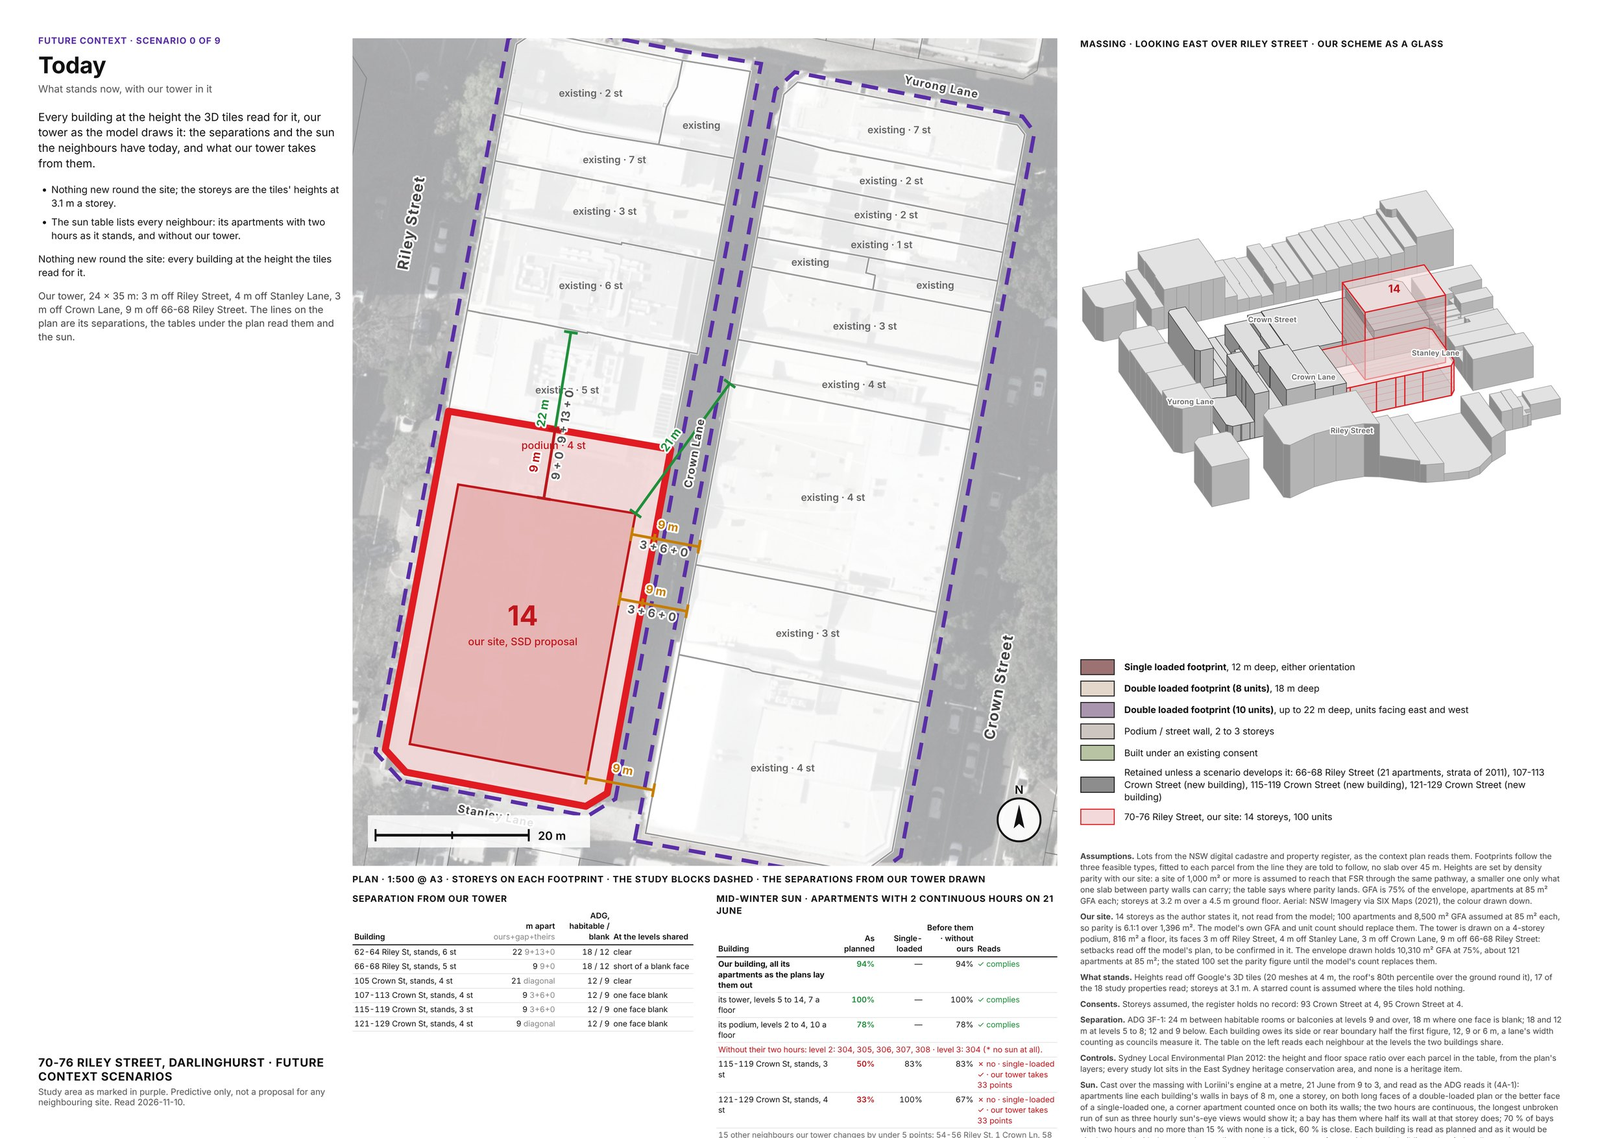
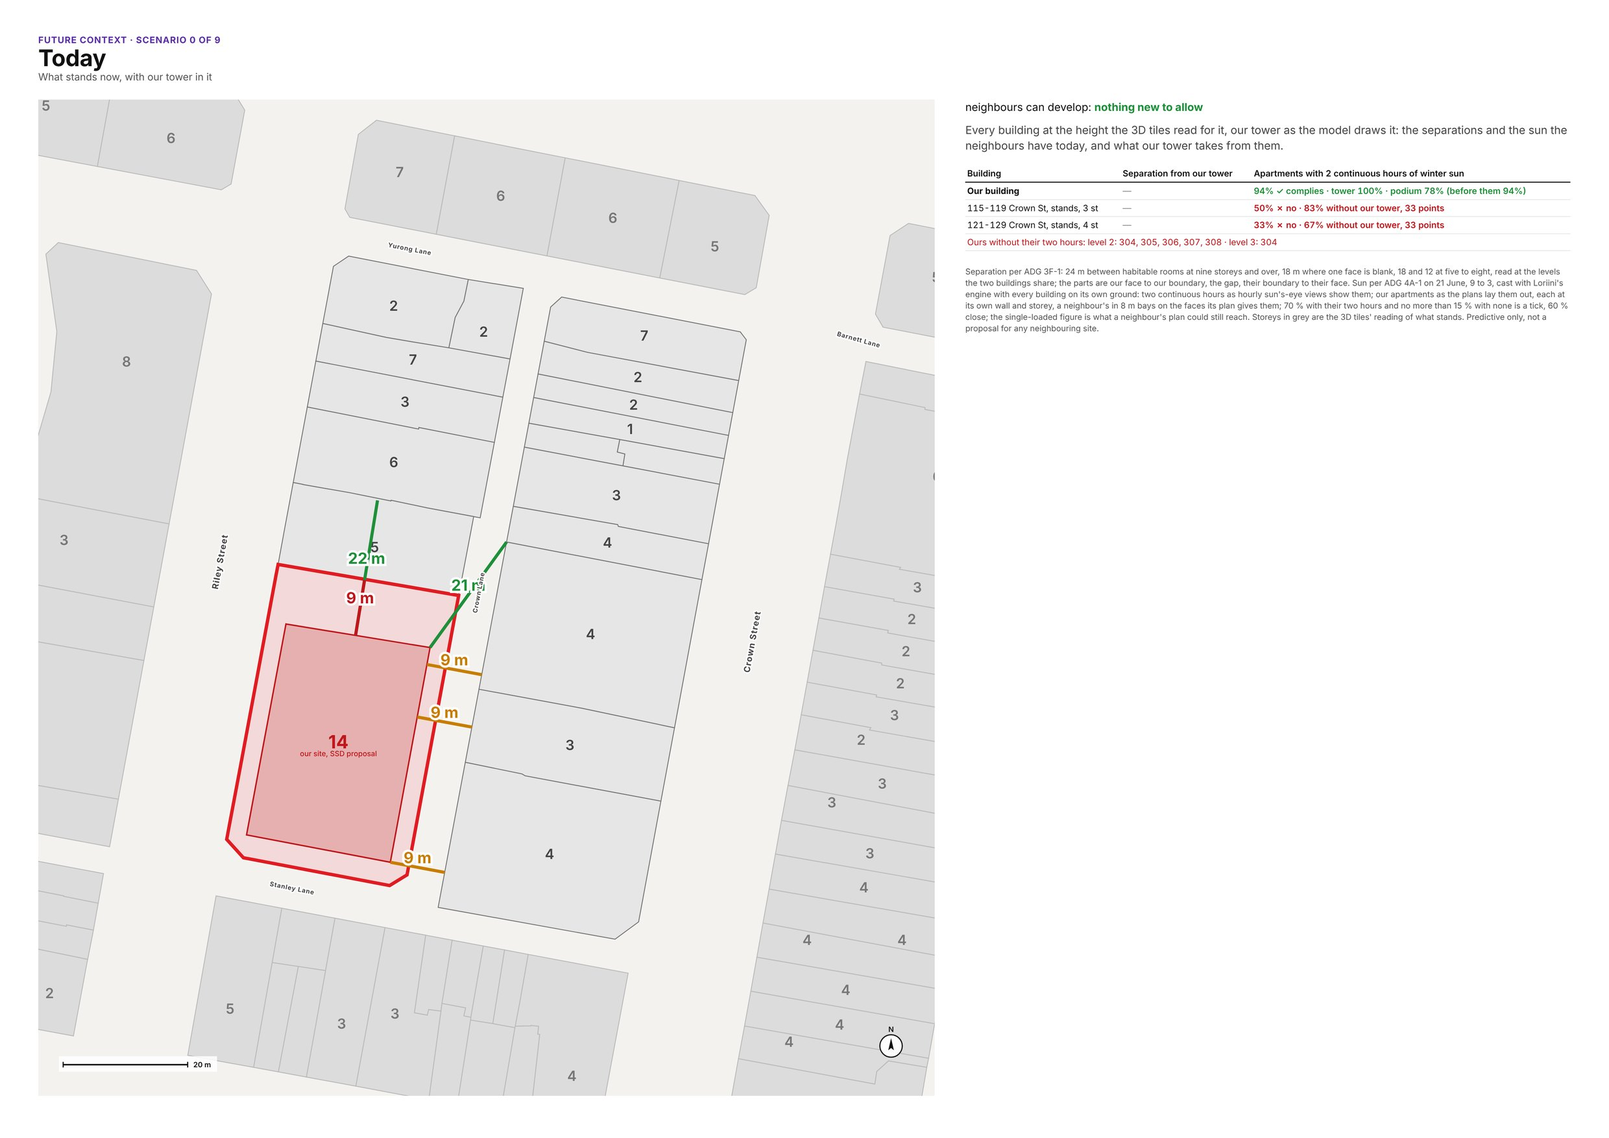
Future context: a sheet for each scenario in the summary's form, the full sheets bound apart
future.pdf is now the summary followed by one sheet a scenario in its
form: the plan large, with the blocks round it and their storeys, the
street names, the parcels keyed, the plates and the separations drawn
with their parts; beside it the apartments the scenario adds, whether the
neighbours can develop, and the table of each new building's separation
and continuous-hours sun, with our building's three numbers, the
apartments of ours without their two hours by level, and the standing
neighbours our tower costs ten points or more. The full sheets, with the
plan at 1:500 on the aerial, the massing, the yield and the assumptions,
are bound apart as future-detail.pdf. The examples carry the summary and
the option sheets.

Claude-Session: https://claude.ai/code/session_01VNRPaoqvXaWWnp37ybZcdp

diff --git a/scripts/future_context.ts b/scripts/future_context.ts
@@ -115,15 +115,22 @@ if (loriini && !args.includes('--no-sun')) {
     await draw();
   } catch (e: any) { log(`  WARN the sun study did not run: ${e?.message ?? e}`); }
 } else log('  no Loriini beside this repository (LORIINI unset): the sheets carry no sun study');
-const { width, height, pages, summary } = JSON.parse(await readFile(join(out, 'future-page.json'), 'utf8')) as { width: number; height: number; pages: number; summary?: boolean };
-const bound = await PDFDocument.create();
-// the summary over every scenario first, then the sheets
-const names = [...(summary ? ['future-summary'] : []), ...Array.from({ length: pages }, (_, i) => `future-${i + 1}`)];
-for (const name of names) {
+const { width, height, pages, summary, options } = JSON.parse(await readFile(join(out, 'future-page.json'), 'utf8')) as { width: number; height: number; pages: number; summary?: boolean; options?: boolean };
+// future.pdf: the summary over every scenario, then a sheet for each in the summary's form; future-detail.pdf: the
+// sheets in full (the plan at 1:500, the massing, the yield, the assumptions)
+const print = async (name: string, into: PDFDocument) => {
   await printPage(join(out, `${name}.html`), { width, height }, { png: join(out, `${name}.png`), pdf: join(out, `${name}.pdf`) });
   const one = await PDFDocument.load(await readFile(join(out, `${name}.pdf`)));
-  for (const p of await bound.copyPages(one, one.getPageIndices())) bound.addPage(p);
+  for (const p of await into.copyPages(one, one.getPageIndices())) into.addPage(p);
   log(`  printed ${name}`);
-}
-await writeFile(join(out, 'future.pdf'), await bound.save());
-console.log(names.map((n) => join(out, `${n}.png`)).concat(join(out, 'future.pdf')).join('\n'));
+};
+const each = Array.from({ length: pages }, (_, i) => i + 1);
+const main = [...(summary ? ['future-summary'] : []), ...(options ? each.map((i) => `future-option-${i}`) : [])];
+const detail = each.map((i) => `future-${i}`);
+const bound = await PDFDocument.create();
+for (const name of main) await print(name, bound);
+const full = await PDFDocument.create();
+for (const name of detail) await print(name, full);
+await writeFile(join(out, main.length ? 'future.pdf' : 'future-detail.pdf'), await (main.length ? bound : full).save());
+if (main.length) await writeFile(join(out, 'future-detail.pdf'), await full.save());
+console.log([...main, ...detail].map((n) => join(out, `${n}.png`)).concat(join(out, 'future.pdf'), ...(main.length ? [join(out, 'future-detail.pdf')] : [])).join('\n'));

diff --git a/scripts/capacity_study/future_context.py b/scripts/capacity_study/future_context.py
@@ -489,10 +489,12 @@ LOTS = [poly_of(l['rings']) for l in a['lots'] if l['rings']]
 LOTS = [l for l in LOTS if not l.is_empty and l.intersects(WINDOW)]
 
 
-def label_roads():
+def label_roads(window=None, k=1.0):
+    """Each street named along its longest run inside the window, the text `k` times the plan's size."""
+    window = WINDOW if window is None else window
     out = []
     for name, lines in ROADS.items():
-        inside = [ls.intersection(WINDOW.buffer(-4)) for ls in lines]
+        inside = [ls.intersection(window.buffer(-4)) for ls in lines]
         segs = [g for g in inside for g in (g.geoms if hasattr(g, 'geoms') else [g]) if g.geom_type == 'LineString' and g.length > 14]
         if not segs:
             continue
@@ -502,7 +504,7 @@ def label_roads():
         ang = -math.degrees(math.atan2(q.y - m.y, q.x - m.x))
         ang = ang - 180 if ang > 90 else ang + 180 if ang < -90 else ang
         lane = 'LANE' in name
-        out.append(f'<text transform="translate({f(m.x)},{f(-m.y)}) rotate({f(ang)})" class="st" font-size="{1.4 if lane else 1.9}" dy="0.6">{H.escape(name.title())}</text>')
+        out.append(f'<text transform="translate({f(m.x)},{f(-m.y)}) rotate({f(ang)})" class="st" font-size="{(1.4 if lane else 1.9) * k}" dy="{0.6 * k}">{H.escape(name.title())}</text>')
     return out
 
 
@@ -920,53 +922,109 @@ def context_buildings(reach):
     return [(r['poly'], storeys_of(r), measured(r)) for pid, r in PROPS.items() if pid not in skip and measured(r) and r['poly'].intersects(study.buffer(reach))]
 
 
-def mini_plan(parcels, blds, existing, RET, sep):
-    """The scenario's plan as colour blocks alone, for the summary, with the blocks round it: no aerial, no names,
-    the separations drawn with their metres, every standing building with its storeys."""
+def mini_plan(parcels, blds, existing, RET, sep, k=1.0, big=False):
+    """The scenario's plan as colour blocks alone, with the blocks round it: no aerial, no names, the separations
+    drawn with their metres, every standing building with its storeys. `k` scales the text and lines (1 for the
+    summary's small plans, less for a sheet's); `big` adds the street names, the plates, a scale bar and north."""
     x0, y0, x1, y1 = WX0 - MINI_PAD, WY0 - MINI_PAD, WX1 + MINI_PAD, WY1 + MINI_PAD
+    box = Polygon([(x0, y0), (x1, y0), (x1, y1), (x0, y1)])
     o = [f'<svg viewBox="{f(x0)} {f(-y1)} {f(x1 - x0)} {f(y1 - y0)}" xmlns="http://www.w3.org/2000/svg"><rect x="{f(x0)}" y="{f(-y1)}" width="{f(x1 - x0)}" height="{f(y1 - y0)}" fill="#f4f2ef"/>']
     for g, n, h in context_buildings(MINI_PAD + 20):
-        o.append(f'<path d="{path(g)}" fill="#dcdcdc" stroke="#bbb" stroke-width="0.3"/>')
+        o.append(f'<path d="{path(g)}" fill="#dcdcdc" stroke="#bbb" stroke-width="{0.3 * k:.2f}"/>')
         if g.area >= 120:
             c = g.representative_point()
-            o.append(f'<text x="{f(c.x)}" y="{-c.y + 1.7:.2f}" font-size="5" font-weight="600" text-anchor="middle" fill="#777">{n}</text>')
+            o.append(f'<text x="{f(c.x)}" y="{-c.y + 1.7 * k:.2f}" font-size="{5 * k:.2f}" font-weight="600" text-anchor="middle" fill="#777">{n}</text>')
     for b in BLOCKS:
         for r in b:
-            o.append(f'<path d="{path(r["poly"])}" fill="#fff" stroke="#ccc" stroke-width="0.3"/>')
+            o.append(f'<path d="{path(r["poly"])}" fill="#fff" stroke="#ccc" stroke-width="{0.3 * k:.2f}"/>')
     standing = [(PROPS[pid]['poly'], existing_height(PROPS[pid])[1], C['retained'], '#fff') for pid in RET] + [(e['poly'], e['n'], '#e6e6e6', '#444') for e in existing]
     for g, n, fill, ink in standing:
-        o.append(f'<path d="{path(g)}" fill="{fill}" stroke="#777" stroke-width="0.3"/>')
+        o.append(f'<path d="{path(g)}" fill="{fill}" stroke="#777" stroke-width="{0.3 * k:.2f}"/>')
     for g, n, fill, ink in standing:                               # what stands today, by its storeys
         if g.area >= 100:
             c = g.representative_point()
-            o.append(f'<text x="{f(c.x)}" y="{-c.y + 1.7:.2f}" font-size="5" font-weight="600" text-anchor="middle" fill="{ink}">{n}</text>')
-    o.append(f'<path d="{path(SITE_POLY)}" fill="{C["site"]}" stroke="#e11b22" stroke-width="1.2"/>')
+            o.append(f'<text x="{f(c.x)}" y="{-c.y + 1.7 * k:.2f}" font-size="{5 * k:.2f}" font-weight="600" text-anchor="middle" fill="{ink}">{n}</text>')
+    o.append(f'<path d="{path(SITE_POLY)}" fill="{C["site"]}" stroke="#e11b22" stroke-width="{1.2 * k:.2f}"/>')
     if TOWER:
-        o.append(f'<path d="{path(SITE_TOWER)}" fill="#e6b0b0" stroke="#c0161c" stroke-width="0.5"/>')
+        o.append(f'<path d="{path(SITE_TOWER)}" fill="#e6b0b0" stroke="#c0161c" stroke-width="{0.5 * k:.2f}"/>')
     for p in parcels:
-        o.append(f'<path d="{path(p["poly"])}" fill="#fff" stroke="#111" stroke-width="0.8"/>')
+        o.append(f'<path d="{path(p["poly"])}" fill="#fff" stroke="#111" stroke-width="{0.8 * k:.2f}"/>')
     for b in blds:
         for g in polys(b['poly']):
-            o.append(f'<path d="{path(g)}" fill="{C["podium"] if b["typ"] == "podium" else C[b["typ"]]}" stroke="#222" stroke-width="0.4"/>')
+            o.append(f'<path d="{path(g)}" fill="{C["podium"] if b["typ"] == "podium" else C[b["typ"]]}" stroke="#222" stroke-width="{0.4 * k:.2f}"/>')
     for b in blds:
         if b['typ'] != 'podium':
             c = b['poly'].representative_point()
-            o.append(f'<text x="{f(c.x)}" y="{-c.y + 2.2:.2f}" font-size="6.5" font-weight="700" text-anchor="middle" fill="#111">{b["n"]}</text>')
+            o.append(f'<text x="{f(c.x)}" y="{-c.y + 2.2 * k:.2f}" font-size="{6.5 * k:.2f}" font-weight="700" text-anchor="middle" fill="#111">{b["n"]}</text>')
+            if big and b.get('plate'):
+                o.append(f'<text x="{f(c.x)}" y="{-c.y + 5 * k:.2f}" font-size="{2.6 * k:.2f}" font-weight="500" text-anchor="middle" fill="#111">{b["plate"]}</text>')
     for p in parcels:                                                 # the key letter at the parcel's corner, as the sheet has it
         x, y = max(p['poly'].exterior.coords, key=lambda q: q[0] + q[1])
-        o.append(f'<circle cx="{f(x)}" cy="{f(-y)}" r="3.6" fill="#111"/><text x="{f(x)}" y="{-y + 1.7:.2f}" font-size="5" font-weight="700" text-anchor="middle" fill="#fff">{p["key"]}</text>')
+        o.append(f'<circle cx="{f(x)}" cy="{f(-y)}" r="{3.6 * k:.2f}" fill="#111"/><text x="{f(x)}" y="{-y + 1.7 * k:.2f}" font-size="{5 * k:.2f}" font-weight="700" text-anchor="middle" fill="#fff">{p["key"]}</text>')
     c = SITE_TOWER.centroid
-    o.append(f'<text x="{f(c.x)}" y="{-c.y + 2.2:.2f}" font-size="6.5" font-weight="700" text-anchor="middle" fill="#c0161c">{S["storeys"]}</text>')
+    o.append(f'<text x="{f(c.x)}" y="{-c.y + 2.2 * k:.2f}" font-size="{6.5 * k:.2f}" font-weight="700" text-anchor="middle" fill="#c0161c">{S["storeys"]}</text>')
+    if big:
+        o.append(f'<text x="{f(c.x)}" y="{-c.y + 5 * k:.2f}" font-size="{2.6 * k:.2f}" font-weight="500" text-anchor="middle" fill="#c0161c">{H.escape(S.get("label", "our site"))}</text>')
     for nm, d, hab, blank, v, geo in sep:
         if d < 0.5 or (v == 'clear' and d > 24 and not geo['new']):
             continue
         col = VERDICT_COLOUR[v]
-        (x0, y0), (x1, y1) = (geo['p0'], geo['p1']) if 'total' in geo else ((geo['diag'][0].x, geo['diag'][0].y), (geo['diag'][1].x, geo['diag'][1].y))
-        o.append(f'<line x1="{f(x0)}" y1="{f(-y0)}" x2="{f(x1)}" y2="{f(-y1)}" stroke="{col}" stroke-width="1.1"/>')
-        if geo['new']:
-            o.append(f'<text x="{f((x0 + x1) / 2)}" y="{-(y0 + y1) / 2 - 1.5:.2f}" font-size="5.5" font-weight="700" text-anchor="middle" fill="{col}" paint-order="stroke" stroke="#fff" stroke-width="1.6">{d:.0f} m</text>')
+        (ax, ay), (bx, by) = (geo['p0'], geo['p1']) if 'total' in geo else ((geo['diag'][0].x, geo['diag'][0].y), (geo['diag'][1].x, geo['diag'][1].y))
+        o.append(f'<line x1="{f(ax)}" y1="{f(-ay)}" x2="{f(bx)}" y2="{f(-by)}" stroke="{col}" stroke-width="{1.1 * k:.2f}"/>')
+        if geo['new'] or big:
+            o.append(f'<text x="{f((ax + bx) / 2)}" y="{-(ay + by) / 2 - 1.5 * k:.2f}" font-size="{5.5 * k:.2f}" font-weight="700" text-anchor="middle" fill="{col}" paint-order="stroke" stroke="#fff" stroke-width="{1.6 * k:.2f}">{d:.0f} m</text>')
+    if big:
+        o += label_roads(box, k * 1.6)
+        L = 20
+        bx0, by0 = x0 + 4, y0 + 5
+        o.append(f'<g transform="translate({f(bx0)} {f(-by0)})"><rect x="{-1.5 * k:.2f}" y="{-3 * k:.2f}" width="{L + 12 * k:.2f}" height="{5.5 * k:.2f}" fill="#fff" fill-opacity=".85"/>'
+                 f'<line x1="0" y1="0" x2="{L}" y2="0" stroke="#111" stroke-width="{0.5 * k:.2f}"/><line x1="0" y1="{-1 * k:.2f}" x2="0" y2="{1 * k:.2f}" stroke="#111" stroke-width="{0.4 * k:.2f}"/>'
+                 f'<line x1="{L}" y1="{-1 * k:.2f}" x2="{L}" y2="{1 * k:.2f}" stroke="#111" stroke-width="{0.4 * k:.2f}"/><text x="{L + 2 * k:.2f}" y="{0.9 * k:.2f}" font-size="{2.6 * k:.2f}" font-weight="600" fill="#111">20 m</text></g>')
+        o.append(f'<g transform="translate({f(x1 - 7)} {f(-(y0 + 8))})"><circle r="{4 * k:.2f}" fill="#fff" fill-opacity=".9" stroke="#111" stroke-width="{0.4 * k:.2f}"/><path d="M0 {-2.8 * k:.2f} L{1 * k:.2f} {1.5 * k:.2f} L0 {0.7 * k:.2f} L{-1 * k:.2f} {1.5 * k:.2f} Z" fill="#111"/><text y="{-5 * k:.2f}" font-size="{2.6 * k:.2f}" font-weight="600" text-anchor="middle" fill="#111">N</text></g>')
     o.append('</svg>')
     return ''.join(o)
+
+
+OPTION_NOTE = ("Separation per ADG 3F-1: 24 m between habitable rooms at nine storeys and over, 18 m where one face is blank, 18 and 12 at five to eight, "
+               "read at the levels the two buildings share; the parts are our face to our boundary, the gap, their boundary to their face. Sun per ADG 4A-1 "
+               "on 21 June, 9 to 3, cast with Loriini's engine with every building on its own ground: two continuous hours as hourly sun's-eye views show them; "
+               "our apartments as the plans lay them out, each at its own wall and storey, a neighbour's in 8 m bays on the faces its plan gives them; 70 % with "
+               "their two hours and no more than 15 % with none is a tick, 60 % close; the single-loaded figure is what a neighbour's plan could still reach. "
+               "Storeys in grey are the 3D tiles' reading of what stands. Predictive only, not a proposal for any neighbouring site.")
+
+
+def option_page(r):
+    """One scenario on a sheet of its own in the summary's form: the plan large with the blocks round it, the
+    apartments it adds, whether the neighbours can develop, and the table of separations and sun."""
+    def cell(text, verdict):
+        return f'<td style="color:{VERDICT_COLOUR.get(verdict, "#111")};font-weight:600">{text}</td>'
+    trs = ''
+    for b in r['buildings']:
+        sun_t, sun_c = b['sun'] if b['sun'] else ('—', '')
+        apart = f'{b["d"]:.0f} m · {b["v"]}' + (f' <span style="font-weight:400;color:#888">{b["parts"]}</span>' if b.get('parts') else '')
+        trs += f'<tr><td>{H.escape(b["name"])}</td>{cell(apart, b["v"])}{cell(sun_t, sun_c)}</tr>'
+    if r['ours']:
+        trs += f'<tr><td><b>Our building</b></td><td style="color:#888">—</td>{cell(r["ours"][0], r["ours"][1])}</tr>'
+    for name, with_, without, loss in r.get('shaded', []):
+        mark, vcol = apts_verdict(dict(share=with_, dark=0))
+        trs += f'<tr><td>{H.escape(name)}</td><td style="color:#888">—</td>{cell(f"{with_:.0%} {mark}" + (f" · {without:.0%} without our tower, {loss * 100:.0f} points" if without is not None else ""), vcol)}</tr>'
+    if r.get('failing'):
+        trs += '<tr><td colspan="3" style="color:#c0161c">Ours without their two hours: ' + ' · '.join(f'level {lv}: {", ".join(ids)}' for lv, ids in sorted(r['failing'].items())) + '</td></tr>'
+    gain = f'About <b>{r["units"]} new apartments</b> on top of ours · ' if r['buildings'] else ''
+    css = (f'.oh{{position:absolute;left:{mm(10)};top:{mm(9)};width:{mm(400)}}} .oh h1{{margin:0}}'
+           f'.oplan{{position:absolute;left:{mm(10)};top:{mm(26)};width:{mm(234)};height:{mm(260)}}} .oplan svg{{width:100%;height:100%}}'
+           f'.ocol{{position:absolute;left:{mm(252)};top:{mm(26)};width:{mm(158)};font-size:{pt(7.2)};line-height:1.4}}'
+           f'.ocol .u{{font-size:{pt(8)};margin-bottom:{mm(2)}}} .ocol .lead{{color:#444;margin:0 0 {mm(3)}}}'
+           f'.ocol table{{font-size:{pt(6.4)}}} .ocol td{{padding:{mm(.6)} {mm(.5)}}} .ocol th{{padding:{mm(.6)} {mm(.5)}}}'
+           f'.ocol .ass{{position:static;width:auto;margin-top:{mm(4)};font-size:{pt(6)};color:#555}}')
+    head = (f'<div class="oh"><div class="kick">Future context · Scenario {r["no"]} of {LAST}</div><h1>{H.escape(r["title"])}</h1>'
+            f'<div class="hor">{H.escape(r["horizon"])}</div></div>')
+    col = (f'<div class="ocol"><div class="u">{gain}neighbours can develop: <b style="color:{r["allow_colour"]}">{r["allow"]}</b></div>'
+           f'<p class="lead">{r["lead"]}</p>'
+           f'<table><tr><th>Building</th><th>Separation from our tower</th><th>Apartments with 2 continuous hours of winter sun</th></tr>{trs}</table>'
+           f'<div class="ass">{OPTION_NOTE}</div></div>')
+    return (f'<!doctype html><html><head><meta charset="utf-8"><title>Future context · Scenario {r["no"]}</title><style>{CSS}{css}</style></head><body>'
+            f'{head}<div class="oplan">{r["big"]}</div>{col}</body></html>')
 
 
 def summary_page():
@@ -1020,6 +1078,7 @@ def page(no, scn):
         return ' <span style="color:#888">' + '+'.join(f'{x:.0f}' for x in ((a, g, b) if g >= 0.3 else (a, b))) + '</span>'
     sep_rows = ''.join(f'<tr><td>{H.escape(nm)}</td><td class="r">{d:.0f}{parts(geo)}</td><td class="r">{hab} / {blank}</td><td>{v}</td></tr>' for nm, d, hab, blank, v, geo in sep if not (v == 'clear' and d > 24 and not geo['new']))
     sun_html = ''
+    sun_failing, sun_shaded = {}, []
     if sun:
         rows, unchanged = [], []
         for bid, r in sun['buildings'].items():
@@ -1032,6 +1091,8 @@ def page(no, scn):
             if r['kind'] == 'standing' and loss < (0.05 if scn.get('sun') == 'all' else 0.1):
                 unchanged.append(r['name'])                       # a standing building our tower barely touches needs no row
                 continue
+            if r['kind'] == 'standing':
+                sun_shaded.append((r['name'], planned['share'], other['planned']['share'] if other else None, loss))
             def line(label, ap_, other_, bold=False):
                 planned_, single_ = ap_['planned'], ap_['single']
                 mark_, vcol_ = apts_verdict(planned_)
@@ -1056,6 +1117,7 @@ def page(no, scn):
                     for uid, fl, ok_, dark_ in (by[grp].get('each') or []):
                         if not ok_:
                             failing.setdefault(first + fl, []).append(uid + ('*' if dark_ else ''))
+                sun_failing.update(failing)
                 if failing:
                     rows.append(f'<tr><td colspan="5" style="color:#c0161c">Without their two hours: ' + ' · '.join(f'level {lv}: {", ".join(ids)}' for lv, ids in sorted(failing.items())) + ' (* no sun at all).</td></tr>')
             else:
@@ -1093,8 +1155,15 @@ def page(no, scn):
     ours = sun_cell(sunb.get('site'), today=True) if sunb.get('site') else None
     worst = max((['clear', 'one face blank', 'short of a blank face'].index(b['v']) for b in buildings), default=0)
     allow = ['yes', 'yes, with one face blank where amber', 'no, the red building cannot keep the separation'][worst] if buildings else 'nothing new to allow'
-    SUMMARY.append(dict(no=no, title=scn['title'], units=units, buildings=buildings, ours=ours, allow=allow, allow_colour=list(VERDICT_COLOUR.values())[worst],
-                        mini=mini_plan(parcels, blds, existing, RET, sep)))
+    parts_of = {nm.split(' · ')[0]: geo for nm, d, hab, blank, v, geo in sep if geo['new']}
+    for b in buildings:
+        g = parts_of.get(b['name'].split(' · ')[0])
+        if g and 'total' in g:
+            a_, gap_, c_ = g['parts']
+            b['parts'] = '+'.join(f'{x:.0f}' for x in ((a_, gap_, c_) if gap_ >= 0.3 else (a_, c_)))
+    SUMMARY.append(dict(no=no, title=scn['title'], horizon=scn.get('horizon', ''), lead=fill_in(scn['lead'], parcels, units), units=units, buildings=buildings, ours=ours,
+                        allow=allow, allow_colour=list(VERDICT_COLOUR.values())[worst], failing=sun_failing, shaded=sun_shaded,
+                        mini=mini_plan(parcels, blds, existing, RET, sep), big=mini_plan(parcels, blds, existing, RET, sep, k=0.45, big=True)))
     return f'''<!doctype html><html><head><meta charset="utf-8"><title>Future context · Scenario {no}</title><style>{CSS}</style></head><body>
 <div class="txt"><div class="kick">Future context · Scenario {no} of {LAST}</div><h1>{H.escape(scn["title"])}</h1><div class="hor">{H.escape(scn["horizon"])}</div>
 <p class="lead">{fill_in(scn["lead"], parcels, units)}</p><ul>{lis}</ul>
@@ -1120,7 +1189,9 @@ LAST = FIRST + len(sc['scenarios']) - 1
 for i, scn in enumerate(sc['scenarios'], 1):
     open(f'{OUT}/future-{i}.html', 'w').write(page(FIRST + i - 1, scn))
 open(f'{OUT}/future-summary.html', 'w').write(summary_page())
-json.dump({'width': PAGE_W, 'height': PAGE_H, 'pages': len(sc['scenarios']), 'summary': True}, open(f'{OUT}/future-page.json', 'w'))
+for i, r in enumerate(SUMMARY, 1):
+    open(f'{OUT}/future-option-{i}.html', 'w').write(option_page(r))
+json.dump({'width': PAGE_W, 'height': PAGE_H, 'pages': len(sc['scenarios']), 'summary': True, 'options': True}, open(f'{OUT}/future-page.json', 'w'))
 for i, scn in enumerate(sc['scenarios'], 1):
     set_tower(scn)
     parcels, blds, existing = resolve(scn)

diff --git a/README.md b/README.md
@@ -1942,12 +1942,17 @@ site might redevelop: three A3 landscape sheets, one a scenario, each a plan
 at 1:500 on the clean aerial (no marks, no labels, the colour drawn down)
 beside an axonometric massing looking east over the site's street, with the
 scenario's story in the left column and an indicative yield under it.
-Outputs `future-1.png`, `-2`, … and `future.pdf` (the sheets bound, behind a
-one-page summary, `future-summary.png`: each scenario's plan as colour blocks,
-the apartments it adds, and for every new building its separation from the
-site's tower and its mid-winter sun, read as the ADG reads them, with a line
-on whether the site's massing lets the neighbours develop) beside
-`analysis.json`; `--redraw` draws again from what was fetched.
+Outputs, beside `analysis.json`: `future.pdf`, a one-page summary
+(`future-summary.png`: each scenario's plan as colour blocks with the blocks
+round it and their storeys, the apartments it adds, and for every new
+building its separation from the site's tower and its mid-winter sun, read as
+the ADG reads them, with a line on whether the site's massing lets the
+neighbours develop) followed by a sheet for each scenario in the same form
+(`future-option-<n>.png`: the plan large, the table, the apartments of ours
+without their sun and the neighbours our tower shades); and
+`future-detail.pdf`, the sheets in full (`future-<n>.png`: the plan at 1:500
+on the aerial, the massing, the yield, the assumptions). `--redraw` draws
+again from what was fetched.
 `examples/capacity_study/` holds the three sheets for 70-76 Riley Street with
 their scenarios file.
 
